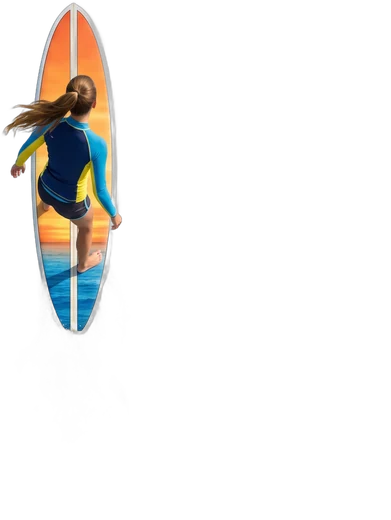
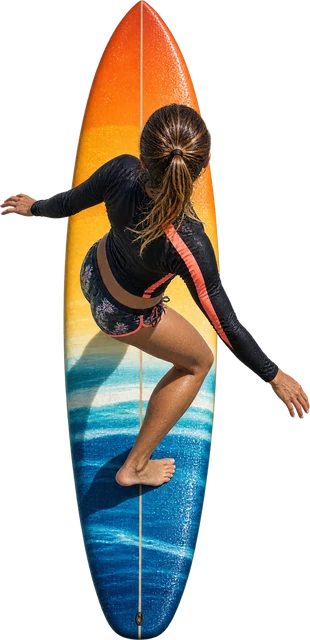
Ride the Nalu: closer camera, HD surfers, 3D breaking waves, wave-powered pier jumps, 5 hearts
- Camera zooms 1.35x and follows the surfer (2D layer + water shader zoom together); water at 1x for
  smoother phones
- New hyper-real surfers, brighter with a sun glow; the body leans and shifts weight with each swipe
- Waves are photoreal breaking crests with a trough shadow, lit face and spray; catching one splashes
- Pier is solid: hitting it without a wave jump bounces you back, -1 heart and -200; catch a wave to
  charge a 2 s big jump (glowing ring) and tap to clear the pier (+500); taps without a wave just hop
- 5 hearts; waves come more often

Claude-Session: https://claude.ai/code/session_01QPTzY5K9U99ggeSmdzRnr3

diff --git a/demo/nalu-vida/game.js b/demo/nalu-vida/game.js
@@ -39,7 +39,7 @@
     '<div class="nv-ov" id="nv-start"><h3>Ride the Nalu</h3><p>Surf the Venice Pier loop. Grab the food, dodge the bites, and win free food &amp; drinks at Nalu Vida.</p>' +
     '<div class="nv-pick"><button type="button" data-s="f"><img src="img/game/surfer_f.webp" alt="" onerror="this.outerHTML=\'<div class=ph style=font-size:64px;line-height:96px>🏄♀</div>\'">She rides</button>' +
     '<button type="button" data-s="m"><img src="img/game/surfer_m.webp" alt="" onerror="this.outerHTML=\'<div class=ph style=font-size:64px;line-height:96px>🏄♂</div>\'">He rides</button></div>' +
-    '<p class="nv-how">Drag to steer · <b>Tap to jump</b> (clear the pier, fly over sharks) · Grab food rafts, boat hand-offs and helicopter drops · 4 in a row = ×2, 8 = ×3, and it keeps going · Dodge sharks, eels &amp; jellyfish · Shoot the pier for a bonus · Tap the banner plane 👀</p><p class="nv-how" id="nv-best"></p></div>' +
+    '<p class="nv-how">Drag to steer · <b>Catch a wave, then tap to jump</b> over the pier (hit the pier without a wave: −1 ❤, −200) · 5 hearts · Grab food rafts, boat hand-offs and helicopter drops · 4 in a row = ×2, 8 = ×3, and it keeps going · Dodge sharks, eels &amp; jellyfish · Shoot the pier for a bonus · Tap the banner plane 👀</p><p class="nv-how" id="nv-best"></p></div>' +
     '<div class="nv-ov" id="nv-end" style="display:none"></div>' +
     "</div>";
   var wrap = mount.firstChild, gl_c = document.getElementById("nv-water"), cv = document.getElementById("cv"), cx = cv.getContext("2d");
@@ -48,7 +48,7 @@
   /* ---------- images ---------- */
   var IM = {};
   ["surfer_m", "surfer_f", "shark", "eel", "jelly", "gull", "boat", "heli", "plane", "raft_taco", "raft_burger", "raft_oysters", "raft_mimosa", "raft_shrimp",
-    "drop", "buoy", "shore", "pier", "pierend", "lifeguard_f", "lifeguard_m", "staff", "palm", "storefront"].forEach(function (k) { var i = new Image(); i.decoding = "async"; i.src = "img/game/" + k + ".webp"; IM[k] = i; });
+    "drop", "buoy", "shore", "pier", "pierend", "lifeguard_f", "lifeguard_m", "staff", "palm", "storefront", "wave", "splash"].forEach(function (k) { var i = new Image(); i.decoding = "async"; i.src = "img/game/" + k + ".webp"; IM[k] = i; });
   function ok(i) { return i && i.complete && i.naturalWidth > 0; }
   function spr(k, x, y, w, rot, alpha) {
     var i = IM[k]; if (!ok(i)) return false; var h = w * i.naturalHeight / i.naturalWidth;
@@ -56,7 +56,7 @@
   }
 
   /* ---------- sizing ---------- */
-  var DPR = Math.min(2, window.devicePixelRatio || 1), WDPR = Math.min(1.25, DPR);
+  var DPR = Math.min(2, window.devicePixelRatio || 1), WDPR = 1;
   function size() { cv.width = W * DPR; cv.height = H * DPR; gl_c.width = Math.round(W * WDPR); gl_c.height = Math.round(H * WDPR); }
   size();
 
@@ -68,7 +68,7 @@
       var vs = "attribute vec2 a;void main(){gl_Position=vec4(a,0.,1.);}";
       var fs = [
         "#ifdef GL_FRAGMENT_PRECISION_HIGH\nprecision highp float;\n#else\nprecision mediump float;\n#endif",
-        "uniform vec2 R;uniform float T,S,SH,K;",
+        "uniform vec2 R,C;uniform float T,S,SH,K,Z;",
         "float h1(vec2 p){return fract(sin(dot(p,vec2(127.1,311.7)))*43758.5453);}",
         "float n2(vec2 p){vec2 i=floor(p),f=fract(p);f=f*f*(3.-2.*f);return mix(mix(h1(i),h1(i+vec2(1,0)),f.x),mix(h1(i+vec2(0,1)),h1(i+1.),f.x),f.y);}",
         "float fbm(vec2 p){float a=.5,s=0.;for(int i=0;i<4;i++){s+=a*n2(p);p=p*2.03+vec2(1.7,9.2);a*=.5;}return s;}",
@@ -77,7 +77,7 @@
         "h+=(fbm(q*6.+vec2(T*.15,T*.35))-.5)*.5;h+=(n2(q*38.-vec2(T*.9,T*.4))-.5)*.12;return h;}",
         // tileable caustic pattern (classic iterative trick)
         "float caus(vec2 uv){vec2 p=mod(uv*6.28318,6.28318)-250.,i=p;float c=1.,inten=.005;for(int n=0;n<4;n++){float t=T*.45*(1.-(3.5/float(n+1)));i=p+vec2(cos(t-i.x)+sin(t+i.y),sin(t-i.y)+cos(t+i.x));c+=1./length(vec2(p.x/(sin(i.x+t)/inten),p.y/(cos(i.y+t)/inten)));}c/=4.;c=1.17-pow(c,1.4);return pow(abs(c),8.);}",
-        "void main(){vec2 p=gl_FragCoord.xy/R*vec2(400.,640.);p.y=640.-p.y;vec2 q=vec2(p.x,p.y-S)/400.;",
+        "void main(){vec2 p=gl_FragCoord.xy/R*vec2(400.,640.);p.y=640.-p.y;p=C+(p-C)/Z;vec2 q=vec2(p.x,p.y-S)/400.;",
         "float e=.0025,h=hgt(q);vec3 n=normalize(vec3(-(hgt(q+vec2(e,0))-h)/e*.06,-(hgt(q+vec2(0,e))-h)/e*.06,1.));",
         "float d=SH-p.y;float dep=clamp(d/340.,0.,1.);float m=dep*dep*14.+h*.25;",                       // water depth in 'meters'
         "vec3 V=normalize(vec3(0.,-.38*(1.-p.y/640.)-.05,1.));",                                           // camera tilts toward the horizon at the top
@@ -101,12 +101,12 @@
       var pr = g.createProgram(); g.attachShader(pr, sh(g.VERTEX_SHADER, vs)); g.attachShader(pr, sh(g.FRAGMENT_SHADER, fs)); g.linkProgram(pr); g.useProgram(pr);
       var b = g.createBuffer(); g.bindBuffer(g.ARRAY_BUFFER, b); g.bufferData(g.ARRAY_BUFFER, new Float32Array([-1, -1, 1, -1, -1, 1, 1, 1]), g.STATIC_DRAW);
       var a = g.getAttribLocation(pr, "a"); g.enableVertexAttribArray(a); g.vertexAttribPointer(a, 2, g.FLOAT, false, 0, 0);
-      ["R", "T", "S", "SH", "K"].forEach(function (k) { U[k] = g.getUniformLocation(pr, k); }); GL = g;
+      ["R", "T", "S", "SH", "K", "C", "Z"].forEach(function (k) { U[k] = g.getUniformLocation(pr, k); }); GL = g;
     } catch (e) { GL = null; }
   })();
   function water(t, p) {
     var sy0 = HC + p; // screen y of the waterline (world y = 0)
-    if (GL) { GL.viewport(0, 0, gl_c.width, gl_c.height); GL.uniform2f(U.R, gl_c.width, gl_c.height); GL.uniform1f(U.T, t); GL.uniform1f(U.S, -p); GL.uniform1f(U.SH, sy0); GL.uniform1f(U.K, G.hurt > 0 ? 1.15 : 1); GL.drawArrays(GL.TRIANGLE_STRIP, 0, 4); return; }
+    if (GL) { GL.viewport(0, 0, gl_c.width, gl_c.height); GL.uniform2f(U.R, gl_c.width, gl_c.height); GL.uniform1f(U.T, t); GL.uniform1f(U.S, -p); GL.uniform1f(U.SH, sy0); GL.uniform1f(U.K, G.hurt > 0 ? 1.15 : 1); GL.uniform2f(U.C, CAM.x, CAM.y); GL.uniform1f(U.Z, ZOOM); GL.drawArrays(GL.TRIANGLE_STRIP, 0, 4); return; }
     var gr = cx.createLinearGradient(0, 0, 0, H); gr.addColorStop(0, "#0b3b5e"); gr.addColorStop(1, "#1aa3b0"); cx.fillStyle = gr; cx.fillRect(0, 0, W, H);
   }
 
@@ -176,12 +176,15 @@
   $("nv-best").textContent = G.best ? "Your best: " + G.best.toLocaleString() : "";
   function buzz(ms) { try { navigator.vibrate && navigator.vibrate(ms); } catch (e) {} }
   var sy = function (yw) { return HC - (yw - G.cam); };
+  var ZOOM = 1.35, CAM = { x: 200, y: 400 };   // the 2D layer and the water shader both zoom around the surfer
+  function camUpdate() { var tx = G.x, ty = sy(G.yw); CAM.x += (tx - CAM.x) * .12; CAM.y += (ty - CAM.y) * .2; }
+  function toWorld(px, py) { return { x: CAM.x + (px - CAM.x) / ZOOM, y: CAM.y + (py - CAM.y) / ZOOM }; }
 
   function reset() {
-    G.score = 0; G.lap = 1; G.dir = 1; G.phase = "ride"; G.hearts = 3; G.streak = 0; G.mult = 1; G.hurt = 0; G.inv = 1.2; G.shake = 0;
+    G.score = 0; G.lap = 1; G.dir = 1; G.phase = "ride"; G.hearts = 5; G.streak = 0; G.mult = 1; G.hurt = 0; G.inv = 1.2; G.shake = 0;
     G.x = 120; G.yw = END_Y - 420; G.vx = 0; G.ang = Math.PI; G.dir = -1; G.lead = -LEAD; G.cam = G.yw + G.lead; G.phase = "intro"; G.introT = 0; G.ents = []; G.fx = []; G.wake = []; G.turn = null; G.underPier = 0;
     G.spawn = { food: 1.2, haz: 2.5, boat: 9, heli: 16, plane: 26, buoy: 40, swell: 3 }; G.runId++; G.posted = 0; G.planeTapped = 0; G.lastGain = G.t;
-    G.pierSide = G.x < PIER_X ? -1 : 1; G.staffToss = 2.2; G.jump = 0; G.jumpDur = 0; G.jcd = 0; G.hint = 4;
+    G.pierSide = G.x < PIER_X ? -1 : 1; G.staffToss = 2.2; G.jump = 0; G.jumpDur = 0; G.jcd = 0; G.hint = 6; G.wave = 0;
   }
   function speed() { return (150 + 22 * (G.lap - 1)) * (G.phase === "ride" ? 1 : 0); }
 
@@ -239,7 +242,7 @@
     if (G.phase === "shore") return shoreStep(dt);
     var v = speed();
     G.yw += G.dir * v * dt;
-    if (G.hint > 0) G.hint -= dt; if (G.jcd > 0) G.jcd -= dt;
+    if (G.hint > 0) G.hint -= dt; if (G.jcd > 0) G.jcd -= dt; if (G.wave > 0) G.wave -= dt;
     if (G.jump > 0) { G.jump -= dt; if (G.jump <= 0) { G.jump = 0; land(); } }
     // steering
     G.x += G.vx * dt; G.vx *= Math.pow(0.0009, dt); G.x = Math.max(16, Math.min(W - 16, G.x));
@@ -250,9 +253,11 @@
     // wake
     if (Math.random() < 0.9) G.wake.push({ x: G.x + rnd(-4, 4), yw: G.yw - G.dir * 18, t: 0, s: rnd(3, 6) });
     // pier: pilings every 80 world px, shooting the pier = crossing under without touching one
-    var under = G.jump <= 0 && Math.abs(G.x - PIER_X) < PIER_W / 2 - 4 && G.yw > -40 && G.yw < END_Y - END_R;
-    if (under) { var ph = ((G.yw % 80) + 80) % 80; if (ph < 9 || ph > 71) hurt("Pier piling!"); G.underPier = 1; }
-    else if (G.jump <= 0) { var side = G.x < PIER_X ? -1 : 1; if (G.underPier && side !== G.pierSide && G.inv <= 0) { gain(400, G.x, sy(G.yw) - 30, "SHOT THE PIER!"); buzz(25); } G.underPier = 0; G.pierSide = side; }
+    var onPier = G.yw > -40 && G.yw < END_Y - END_R, bigAir = G.jump > 0 && G.jumpDur > .6;
+    if (onPier && !bigAir && Math.abs(G.x - PIER_X) < PIER_W / 2 + 12) {          // ran into the pier
+      var back = G.pierSide || (G.x < PIER_X ? -1 : 1); G.x = PIER_X + back * (PIER_W / 2 + 16); G.vx = back * 260;
+      if (G.inv <= 0) { G.score = Math.max(0, G.score - 200); hurt("Hit the pier! −200"); G.fx.push({ k: "wsplash", x: G.x, y: sy(G.yw), t: 0 }); }
+    } else if (G.jump <= 0) G.pierSide = G.x < PIER_X ? -1 : 1;
     // spawns
     var S = G.spawn, lv = G.lap, nearEnd = G.dir > 0 ? G.yw > LEG - 500 : G.yw < 500;
     S.food -= dt; S.haz -= dt; S.boat -= dt; S.heli -= dt; S.plane -= dt; S.buoy -= dt; S.swell -= dt;
@@ -262,7 +267,7 @@
       if (S.boat <= 0) { boat(); S.boat = rnd(11, 16); }
       if (S.heli <= 0) { heli(); S.heli = rnd(18, 26); }
       if (S.buoy <= 0 && G.hearts < 4) { add({ t: "buoy", x: laneX(), yw: ahead(H * 0.75), r: 16 }); S.buoy = rnd(35, 50); }
-      if (S.swell <= 0) { swell(); S.swell = rnd(3.5, 6); }
+      if (S.swell <= 0) { swell(); S.swell = rnd(2.2, 3.6); }
     }
     if (S.plane <= 0) { plane(); S.plane = rnd(40, 55); }
     if (Math.random() < dt * 0.35 && G.gulls.length < 5) gull();
@@ -288,12 +293,12 @@
         var d = Math.hypot(e.x - G.x, (e.yw - G.yw)), hitR = e.r + 14;
         if (e.t === "food" && d < hitR + 6) { gain(e.pts, e.x, sy(e.yw), e.gold ? "GOLDEN!" : ""); buzz(10); G.fx.push({ k: "ring", x: e.x, y: sy(e.yw), t: 0 }); G.ents.splice(i, 1); continue; }
         if (e.t === "drop" && e.air <= 0.25 && d < hitR + 8) { gain(e.pts, e.x, sy(e.yw), "DRINK DROP!"); buzz(12); G.ents.splice(i, 1); continue; }
-        if (e.t === "buoy" && d < hitR + 6) { G.hearts = Math.min(5, G.hearts + 1); pop(e.x, sy(e.yw), "+1 ❤ Lifeguard save!", "#ff9db0", 1); toast("lifeguard_f", "Rescue can! +1 heart"); G.ents.splice(i, 1); continue; }
+        if (e.t === "buoy" && d < hitR + 6) { G.hearts = Math.min(6, G.hearts + 1); pop(e.x, sy(e.yw), "+1 ❤ Lifeguard save!", "#ff9db0", 1); toast("lifeguard_f", "Rescue can! +1 heart"); G.ents.splice(i, 1); continue; }
         var danger = e.t === "jelly" || (e.t === "eel" && e.zap) || (e.t === "shark" && e.st === "lunge") || e.t === "boat";
         if (danger && d < hitR) { hurt(e.t === "shark" ? "SHARK BITE!" : e.t === "eel" ? "⚡ ZAPPED!" : e.t === "jelly" ? "Jellyfish sting!" : "Boat wake!"); if (e.t === "shark") e.st = "gone"; continue; }
         if ((e.t === "jelly" || e.t === "eel" || e.t === "shark") && !e.nm && d < hitR + 26 && d >= hitR && (e.t !== "shark" || e.st === "lunge")) { e.nm = 1; gain(50, G.x, py - 40, "close one!"); }
       }
-      if (e.t === "swell" && !e.hit && Math.abs(e.yw - G.yw) < 10) { e.hit = 1; jump(false); if (Math.abs(G.vx) > 120) { gain(150, G.x, py - 36, "AIR!"); G.fx.push({ k: "spray", x: G.x, y: py, t: 0 }); } }
+      if (e.t === "swell" && !e.hit && Math.abs(e.yw - G.yw) < 10) { e.hit = 1; G.wave = 2.0; jump(false); sfx("splash"); G.fx.push({ k: "wsplash", x: G.x, y: sy(G.yw), t: 0 }); pop(G.x, sy(G.yw) - 54, "WAVE! TAP TO JUMP", "#7fe3f2"); if (Math.abs(G.vx) > 120) { gain(150, G.x, py - 36, "AIR!"); G.fx.push({ k: "spray", x: G.x, y: py, t: 0 }); } }
       ey = e.scr ? e.y : sy(e.yw);
       if (e.t === "plane" ? (e.x < -360 || e.x > W + 360) : (ey < -260 || ey > H + 260 || e.x < -120 || e.x > W + 120)) G.ents.splice(i, 1);
     }
@@ -325,6 +330,8 @@
   // tap to launch off a wave: airborne you clear the pier and fly over sharks, eels and jellies
   function jump(big) {
     if (!G.running || G.phase !== "ride" || G.jump > 0 || (big && G.jcd > 0)) return;
+    if (big && !(G.wave > 0)) { G.jumpDur = .3; G.jump = .3; G.jumpFrom = G.x < PIER_X ? -1 : 1; pop(G.x, sy(G.yw) - 50, "Catch a wave to jump!", "#cfe8ff"); return; }
+    if (big) G.wave = 0;
     G.jumpDur = big ? 0.82 : 0.38; G.jump = G.jumpDur; if (big) { G.jcd = 1.0; sfx("air"); buzz(12); }
     G.jumpFrom = G.x < PIER_X ? -1 : 1; G.fx.push({ k: "spray", x: G.x, y: sy(G.yw), t: 0 });
   }
@@ -381,14 +388,15 @@
 
   /* ---------- drawing ---------- */
   function draw() {
+    camUpdate();
     water(G.t, G.cam);
     cx.setTransform(DPR, 0, 0, DPR, 0, 0); cx.clearRect(0, 0, W, H);
+    cx.translate(CAM.x, CAM.y); cx.scale(ZOOM, ZOOM); cx.translate(-CAM.x, -CAM.y);
     if (!GL) water(G.t, G.cam);
     if (G.shake > 0.5) cx.translate(rnd(-G.shake, G.shake), rnd(-G.shake, G.shake));
     drawShore();
     // swells
-    G.ents.forEach(function (e) { if (e.t !== "swell") return; var y = sy(e.yw); cx.save(); cx.globalAlpha = .55; cx.strokeStyle = "#f4fbff"; cx.lineWidth = 3; cx.beginPath();
-      for (var x = -10; x <= W + 10; x += 10) { var yy = y + Math.sin(x * .035 + G.t * 2) * 6; x === -10 ? cx.moveTo(x, yy) : cx.lineTo(x, yy); } cx.stroke(); cx.restore(); });
+    G.ents.forEach(function (e) { if (e.t !== "swell") return; drawWave(e); });
     // wake
     G.wake.forEach(function (w) { cx.globalAlpha = (1 - w.t / 1.1) * .7; cx.fillStyle = "#fff"; cx.beginPath(); cx.arc(w.x, sy(w.yw), w.s * (1 + w.t), 0, 7); cx.fill(); }); cx.globalAlpha = 1;
     // water-level things under the pier deck
@@ -396,6 +404,7 @@
     // player (drawn before the deck so the deck covers you when you shoot the pier)
     drawSurfer();
     drawPier();
+    if (G.jump > 0 && G.jumpDur > .6) drawSurfer();   // airborne over the deck: draw the surfer above the pier
     G.ents.forEach(function (e) { if (e.t === "toss") drawEnt(e); });
     // sky layer: gull shadows, gulls, heli, plane
     G.gulls.forEach(function (g) { var flap = Math.sin(g.f * 9) * .15; cx.globalAlpha = .18; cx.fillStyle = "#001018"; cx.beginPath(); cx.ellipse(g.x + 26, g.y + 34, 14, 5, 0, 0, 7); cx.fill(); cx.globalAlpha = 1;
@@ -405,10 +414,11 @@
     G.fx.forEach(function (f) {
       if (f.k === "txt") { var a = 1 - f.t / 1.1; cx.globalAlpha = Math.max(0, a); cx.font = (f.big ? "900 24px" : "800 15px") + " 'Alfa Slab One',Georgia,serif"; cx.textAlign = "center"; cx.lineWidth = 4; cx.strokeStyle = "rgba(0,20,40,.7)"; cx.strokeText(f.txt, f.x, f.y - f.t * 40); cx.fillStyle = f.col; cx.fillText(f.txt, f.x, f.y - f.t * 40); cx.globalAlpha = 1; }
       else if (f.k === "ring") { cx.strokeStyle = "rgba(255,210,63," + (1 - f.t / .6) + ")"; cx.lineWidth = 3; cx.beginPath(); cx.arc(f.x, f.y, 14 + f.t * 70, 0, 7); cx.stroke(); }
+      else if (f.k === "wsplash") { var a2 = Math.max(0, 1 - f.t / .6), s2 = 70 + f.t * 120; if (ok(IM.splash)) spr("splash", f.x, f.y - 6, s2, 0, a2); }
       else if (f.k === "splash") { for (var q2 = 0; q2 < 18; q2++) { var an = q2 / 18 * 6.283, rr2 = f.t * 120; cx.fillStyle = "rgba(255,255,255," + (1 - f.t / .6) + ")"; cx.beginPath(); cx.arc(f.x + Math.cos(an) * rr2, f.y + Math.sin(an) * rr2 * .6, 4 - f.t * 4, 0, 7); cx.fill(); } cx.strokeStyle = "rgba(255,255,255," + (1 - f.t / .6) + ")"; cx.lineWidth = 3; cx.beginPath(); cx.ellipse(f.x, f.y, f.t * 90, f.t * 54, 0, 0, 7); cx.stroke(); }
       else if (f.k === "spray") { for (var k = 0; k < 10; k++) { cx.fillStyle = "rgba(255,255,255," + (1 - f.t / .6) + ")"; cx.beginPath(); cx.arc(f.x + Math.cos(k) * f.t * 80, f.y + Math.sin(k * 2) * f.t * 50, 3, 0, 7); cx.fill(); } }
     });
-    if (G.hint > 0 && G.phase === "ride") { cx.globalAlpha = Math.min(1, G.hint) * (.6 + .4 * Math.sin(G.t * 6)); label("👆 Tap to jump · drag to steer", W / 2, H - 40, "#fff"); cx.globalAlpha = 1; }
+    if (G.hint > 0 && G.phase === "ride") { cx.save(); cx.setTransform(DPR, 0, 0, DPR, 0, 0); cx.globalAlpha = Math.min(1, G.hint) * (.6 + .4 * Math.sin(G.t * 6)); label("🌊 Catch a wave, then tap to jump the pier", W / 2, H - 40, "#fff"); cx.restore(); }
     if (G.hurt > 0) { cx.fillStyle = "rgba(255,40,60," + G.hurt * .9 + ")"; cx.fillRect(-20, -20, W + 40, H + 40); }
     if ((G.phase === "shore" || G.phase === "finale") && ok(IM.storefront)) {
       var k = Math.min(1, (G.phase === "shore" ? G.shoreT : G.finT) / .5), cw = W - 40, ch = cw * IM.storefront.naturalHeight / IM.storefront.naturalWidth, yy = 64 - (1 - k) * (ch + 80);
@@ -416,6 +426,21 @@
       label(G.phase === "shore" ? "★ Welcome back to Nalu Vida ★" : "★ The Nalu Vida crew pulled you in ★", W / 2, yy + ch + 18, "#ffd23f");
     }
     hud();
+  }
+  // a rolling wave with real depth: dark trough behind, sunlit face, breaking white crest (photo art) and spray
+  function drawWave(e) {
+    var y = sy(e.yw), up = G.dir > 0 ? 1 : -1, sw = Math.sin(G.t * 1.6 + e.yw * .01) * 4;
+    var tr = cx.createLinearGradient(0, y - up * 46, 0, y + up * 6); tr.addColorStop(0, "rgba(2,30,55,0)"); tr.addColorStop(.75, "rgba(2,30,55,.42)"); tr.addColorStop(1, "rgba(2,30,55,0)");
+    cx.fillStyle = tr; cx.fillRect(-60, Math.min(y - up * 46, y + up * 6), W + 120, 52);                                   // trough shadow in front of the wave
+    var fc = cx.createLinearGradient(0, y + up * 4, 0, y + up * 34); fc.addColorStop(0, "rgba(120,235,235,.55)"); fc.addColorStop(1, "rgba(20,120,160,0)");
+    cx.fillStyle = fc; cx.fillRect(-60, Math.min(y + up * 4, y + up * 34), W + 120, 30);                                  // light passing through the face
+    if (ok(IM.wave)) { var wh = 74, ww = wh * IM.wave.naturalWidth / IM.wave.naturalHeight, off = ((G.t * 18 + e.yw) % ww + ww) % ww;
+      cx.save(); if (up < 0) { cx.translate(0, y * 2); cx.scale(1, -1); }
+      for (var x0 = -off - ww; x0 < W + ww; x0 += ww * .92) cx.drawImage(IM.wave, x0, y - wh * .55 + sw, ww, wh);
+      cx.restore(); }
+    else { cx.strokeStyle = "rgba(255,255,255,.8)"; cx.lineWidth = 6; cx.beginPath(); for (var x = -10; x <= W + 10; x += 10) { var yy = y + Math.sin(x * .035 + G.t * 2) * 6; x === -10 ? cx.moveTo(x, yy) : cx.lineTo(x, yy); } cx.stroke(); }
+    for (var k = 0; k < 5; k++) { var sx = (k * 97 + G.t * 60 + e.yw) % (W + 40) - 20, ph = (G.t * 2.2 + k) % 1;             // spray kicking off the lip
+      cx.fillStyle = "rgba(255,255,255," + (.7 * (1 - ph)) + ")"; cx.beginPath(); cx.arc(sx + ph * 10, y - up * (10 + ph * 26), 1.5 + ph * 2.5, 0, 7); cx.fill(); }
   }
   function drawShore() {
     var y0 = sy(0); if (y0 < -40) return;   // waterline on screen
@@ -474,7 +499,15 @@
     var bob = Math.sin(G.t * 2.3 + G.yw * .018) * 2.5, tilt = Math.sin(G.t * 1.7 + G.yw * .011) * .07;
     cx.fillStyle = "rgba(0,20,35," + (.25 - air * .1) + ")"; cx.beginPath(); cx.ellipse(x + 6 + air * 26, y + 8 + air * 34, 12 * (1 - air * .25), 30 * (1 - air * .25), G.ang, 0, 7); cx.fill();
     y = y + bob - air * 34;
-    if (!spr(G.surfer === "m" ? "surfer_m" : "surfer_f", x, y, 64 * (1 + air * .42), G.ang + tilt + air * .25 * (G.vx > 0 ? 1 : -1))) {
+    if (G.wave > 0) { var wr = 40 + Math.sin(G.t * 12) * 4; cx.strokeStyle = "rgba(127,227,242," + Math.min(1, G.wave) + ")"; cx.lineWidth = 3; cx.beginPath(); cx.arc(x, y, wr, 0, 7); cx.stroke();
+      cx.strokeStyle = "rgba(255,255,255," + Math.min(.6, G.wave * .5) + ")"; cx.lineWidth = 1.5; cx.beginPath(); cx.arc(x, y, wr + 6, 0, 7); cx.stroke(); }
+    var sun = cx.createRadialGradient(x, y, 4, x, y, 46); sun.addColorStop(0, "rgba(255,240,200,.30)"); sun.addColorStop(1, "rgba(255,240,200,0)"); cx.fillStyle = sun; cx.beginPath(); cx.arc(x, y, 46, 0, 7); cx.fill();
+    var lean = Math.max(-.55, Math.min(.55, G.vx / 380)), shift = lean * 6;                       // weight shifts into the turn
+    cx.save(); cx.filter = "brightness(1.2) contrast(1.08) saturate(1.12)";
+    var drew = (function () { var i = IM[G.surfer === "m" ? "surfer_m" : "surfer_f"]; if (!ok(i)) return false; var w = 56 * (1 + air * .42), h = w * i.naturalHeight / i.naturalWidth;
+      cx.translate(x + shift, y); cx.rotate(G.ang + tilt * .6 + air * .25 * (G.vx > 0 ? 1 : -1)); cx.transform(1, 0, -lean * .35, 1, 0, 0); cx.scale(1 - Math.abs(lean) * .1, 1); cx.drawImage(i, -w / 2, -h / 2, w, h); return true; })();
+    cx.restore();
+    if (!drew) {
       cx.save(); cx.translate(x, y); cx.rotate(G.ang); var gr = cx.createLinearGradient(0, -30, 0, 30); gr.addColorStop(0, "#ffb02e"); gr.addColorStop(.5, "#ffd23f"); gr.addColorStop(.5, "#2f8fd8"); gr.addColorStop(1, "#173d8f");
       cx.fillStyle = gr; cx.beginPath(); cx.ellipse(0, 0, 10, 30, 0, 0, 7); cx.fill(); cx.fillStyle = G.surfer === "m" ? "#7a4a2a" : "#b5735a"; cx.beginPath(); cx.arc(0, -2, 7, 0, 7); cx.fill(); cx.restore();
     }
@@ -550,7 +583,7 @@
   function rotor(x, y, r, a, top) { if (top) rotorFX(cx, x, y, r, G.t, 1); }
   var lastHud = "";
   function hud() {
-    var s = Math.floor(G.score).toLocaleString(), m = "×" + G.mult + (G.streak >= 3 ? " · " + G.streak + " streak 🔥" : ""), hs = "❤".repeat(Math.max(0, G.hearts)) + "🤍".repeat(Math.max(0, 3 - G.hearts)),
+    var s = Math.floor(G.score).toLocaleString(), m = "×" + G.mult + (G.streak >= 3 ? " · " + G.streak + " streak 🔥" : ""), hs = "❤".repeat(Math.max(0, G.hearts)) + "🤍".repeat(Math.max(0, 5 - G.hearts)),
       leg = G.phase === "turn" ? "Rounding the pier!" : G.phase === "shore" ? "Nalu Vida pit stop" : G.dir > 0 ? "Out to the end of the pier" : "Back to Nalu Vida", key = s + m + hs + leg + G.lap;
     if (key === lastHud) return; lastHud = key;
     $("nv-score").textContent = s; $("nv-mult").textContent = m; $("nv-hearts").textContent = hs; $("nv-leg").textContent = leg; $("nv-lap").textContent = "Lap " + G.lap;
@@ -624,13 +657,13 @@
   var drag = null;
   function local(e) { var r = cv.getBoundingClientRect(); return { x: (e.clientX - r.left) * W / r.width, y: (e.clientY - r.top) * H / r.height }; }
   cv.addEventListener("pointerdown", function (e) {
-    e.preventDefault(); var p = local(e);
+    e.preventDefault(); var p0 = local(e), p = toWorld(p0.x, p0.y);
     var pl = G.ents.filter(function (x) { return x.t === "plane" && x.hit; })[0];
     if (pl && p.x > pl.hit.x && p.x < pl.hit.x + pl.hit.w && p.y > pl.hit.y && p.y < pl.hit.y + pl.hit.h) { melodyEgg(); return; }
     if (!G.running) return;
     drag = { id: e.pointerId, x: p.x, x0: p.x, t0: performance.now(), moved: 0 }; try { cv.setPointerCapture(e.pointerId); } catch (x) {}
   });
-  cv.addEventListener("pointermove", function (e) { if (!drag || e.pointerId !== drag.id) return; var p = local(e), dx = p.x - drag.x; drag.x = p.x; drag.moved += Math.abs(dx); G.x += dx * 1.15; G.vx = dx * 60; });
+  cv.addEventListener("pointermove", function (e) { if (!drag || e.pointerId !== drag.id) return; var p = local(e), dx = p.x - drag.x; drag.x = p.x; drag.moved += Math.abs(dx); G.x += dx * 1.15 / ZOOM * 1.2; G.vx = dx * 60; });
   cv.addEventListener("pointerup", function () { if (drag && drag.moved < 10 && performance.now() - drag.t0 < 280) jump(true); drag = null; });
   cv.addEventListener("pointercancel", function () { drag = null; });
   var keys = {};
